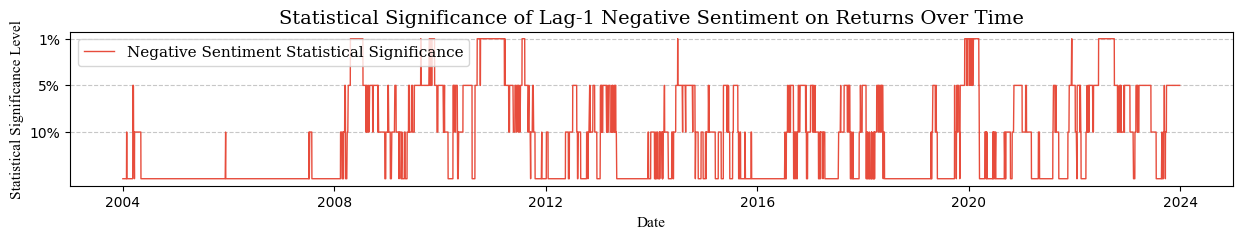
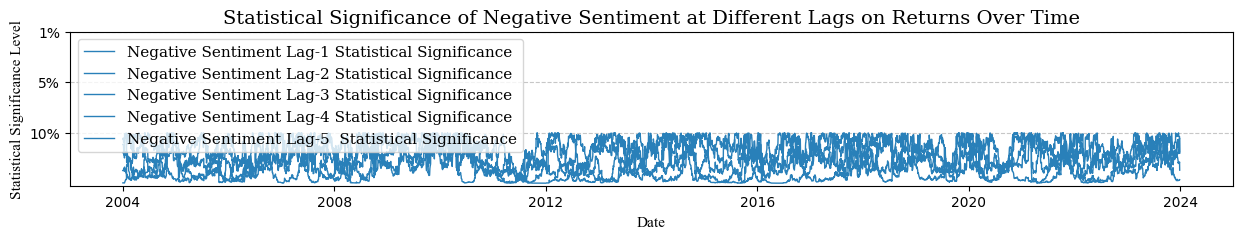
plotting results

diff --git a/Plot_Rolling_VAR_Results.py b/Plot_Rolling_VAR_Results.py
@@ -1,0 +1,49 @@
+import numpy as np
+import pandas as pd
+from datetime import datetime
+import matplotlib.dates as mdates
+import matplotlib.pyplot as plt
+
+# Load data
+df = pd.read_csv('Rolling_VAR_Results/Returns_Rolling_VAR_P_Values.csv')
+df = df[252:]
+df.set_index('obs', inplace=True)
+
+# Convert dates to objects
+dates = df.index.tolist()
+datetime_objs = [datetime.strptime(date_str.split(' ')[0], '%Y-%m-%d') for date_str in dates]
+
+# Plot negative sentiment significance
+fig, ax = plt.subplots(figsize=(15, 2))
+
+# Plot each line plot on the same axis
+ax.plot(datetime_objs, df['neg_p_values_lag_one'], label='Negative Sentiment Lag-1 Statistical Significance', color='#2980b9', linewidth=1)
+ax.plot(datetime_objs, df['neg_p_values_lag_two'], label='Negative Sentiment Lag-2 Statistical Significance', color='#2980b9', linewidth=1)
+ax.plot(datetime_objs, df['neg_p_values_lag_three'], label='Negative Sentiment Lag-3 Statistical Significance', color='#2980b9', linewidth=1)
+ax.plot(datetime_objs, df['neg_p_values_lag_four'], label='Negative Sentiment Lag-4 Statistical Significance', color='#2980b9', linewidth=1)
+ax.plot(datetime_objs, df['neg_p_values_lag_five'], label='Negative Sentiment Lag-5  Statistical Significance', color='#2980b9', linewidth=1)
+
+ax.set_title('Statistical Significance of Negative Sentiment at Different Lags on Returns Over Time', fontsize=14, fontfamily='serif')
+ax.gca().xaxis.set_major_formatter(mdates.DateFormatter('%Y'))
+ax.legend(fontsize=11, loc='upper left', prop={'family': 'serif', 'size': 11})
+ax.xlabel('Date', fontsize=11, fontname='Times New Roman')
+ax.ylabel('Statistical Significance Level', fontsize=11, fontname='Times New Roman')
+ax.yticks([1, 2, 3], ['10%', '5%', '1%'])
+ax.grid(axis='y', linestyle='--', alpha=0.7)
+ax.tick_params(axis='both', which='major', labelsize=10)
+ax.savefig('Plots/Returns_Negative_Sentiment_Significance.png', bbox_inches='tight')
+#plt.show()
+
+# Plot data
+plt.figure(figsize=(15, 2))
+plt.plot(datetime_objs, media_vol_significance, label='Article Count Statistical Significance', color='#27ae60', linewidth=1)
+plt.title('Statistical Significance of Lag-1 Article Count on Returns Over Time', fontsize=14, fontfamily='serif')
+plt.gca().xaxis.set_major_formatter(mdates.DateFormatter('%Y'))
+plt.legend(fontsize=11, loc='upper left', prop={'family': 'serif', 'size': 11})
+plt.xlabel('Date', fontsize=11, fontname='Times New Roman')
+plt.ylabel('Statistical Significance Level', fontsize=11, fontname='Times New Roman')
+plt.yticks([1, 2, 3], ['10%', '5%', '1%'])
+plt.grid(axis='y', linestyle='--', alpha=0.7)
+plt.tick_params(axis='both', which='major', labelsize=10)
+plt.savefig('Plots/Returns_Article_Count_Significance.png', bbox_inches='tight')
+#plt.show()
